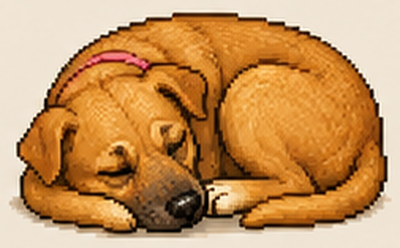
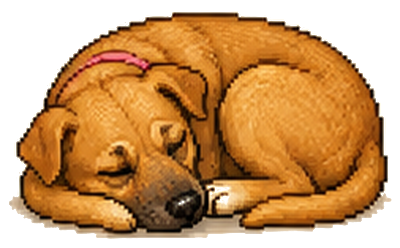
Remove fundo creme das imagens da Nina (fica transparente) e ajusta espacamento do texto

Changed region(s): [[0.0, 0.0, 1.0, 1.0], [0.51, 0.7339, 0.57, 0.8185]]

diff --git a/web/src/screens/HomeScreen.jsx b/web/src/screens/HomeScreen.jsx
@@ -286,7 +286,7 @@ function criarEstilos(CORES) {
     },
     cabecalhoLista: { display: 'flex', flexDirection: 'column', alignItems: 'center', marginBottom: 12 },
     mascoteCabecalho: { width: 130, height: 130, objectFit: 'contain' },
-    textoParabens: { fontSize: 16, fontWeight: 700, color: CORES.primariaEscura, marginTop: -6 },
+    textoParabens: { fontSize: 16, fontWeight: 700, color: CORES.primariaEscura, marginTop: 8 },
     vazioContainer: { display: 'flex', flexDirection: 'column', alignItems: 'center', marginTop: 30 },
     mascoteVazio: { width: 220, height: 220, objectFit: 'contain', marginBottom: 12 },
     vazioTexto: { color: CORES.textoSecundario, textAlign: 'center' },

diff --git a/web/src/utils/versao.js b/web/src/utils/versao.js
@@ -1,4 +1,4 @@
 // Atualizo esse número toda vez que envio uma mudança —
 // serve pra você confirmar se o app realmente atualizou no celular.
-export const VERSAO = '1.11.0';
-export const VERSAO_DESCRICAO = 'Modo escuro adicionado (em Configuracoes)';
+export const VERSAO = '1.11.1';
+export const VERSAO_DESCRICAO = 'Remove fundo das imagens da Nina e ajusta espacamento';
